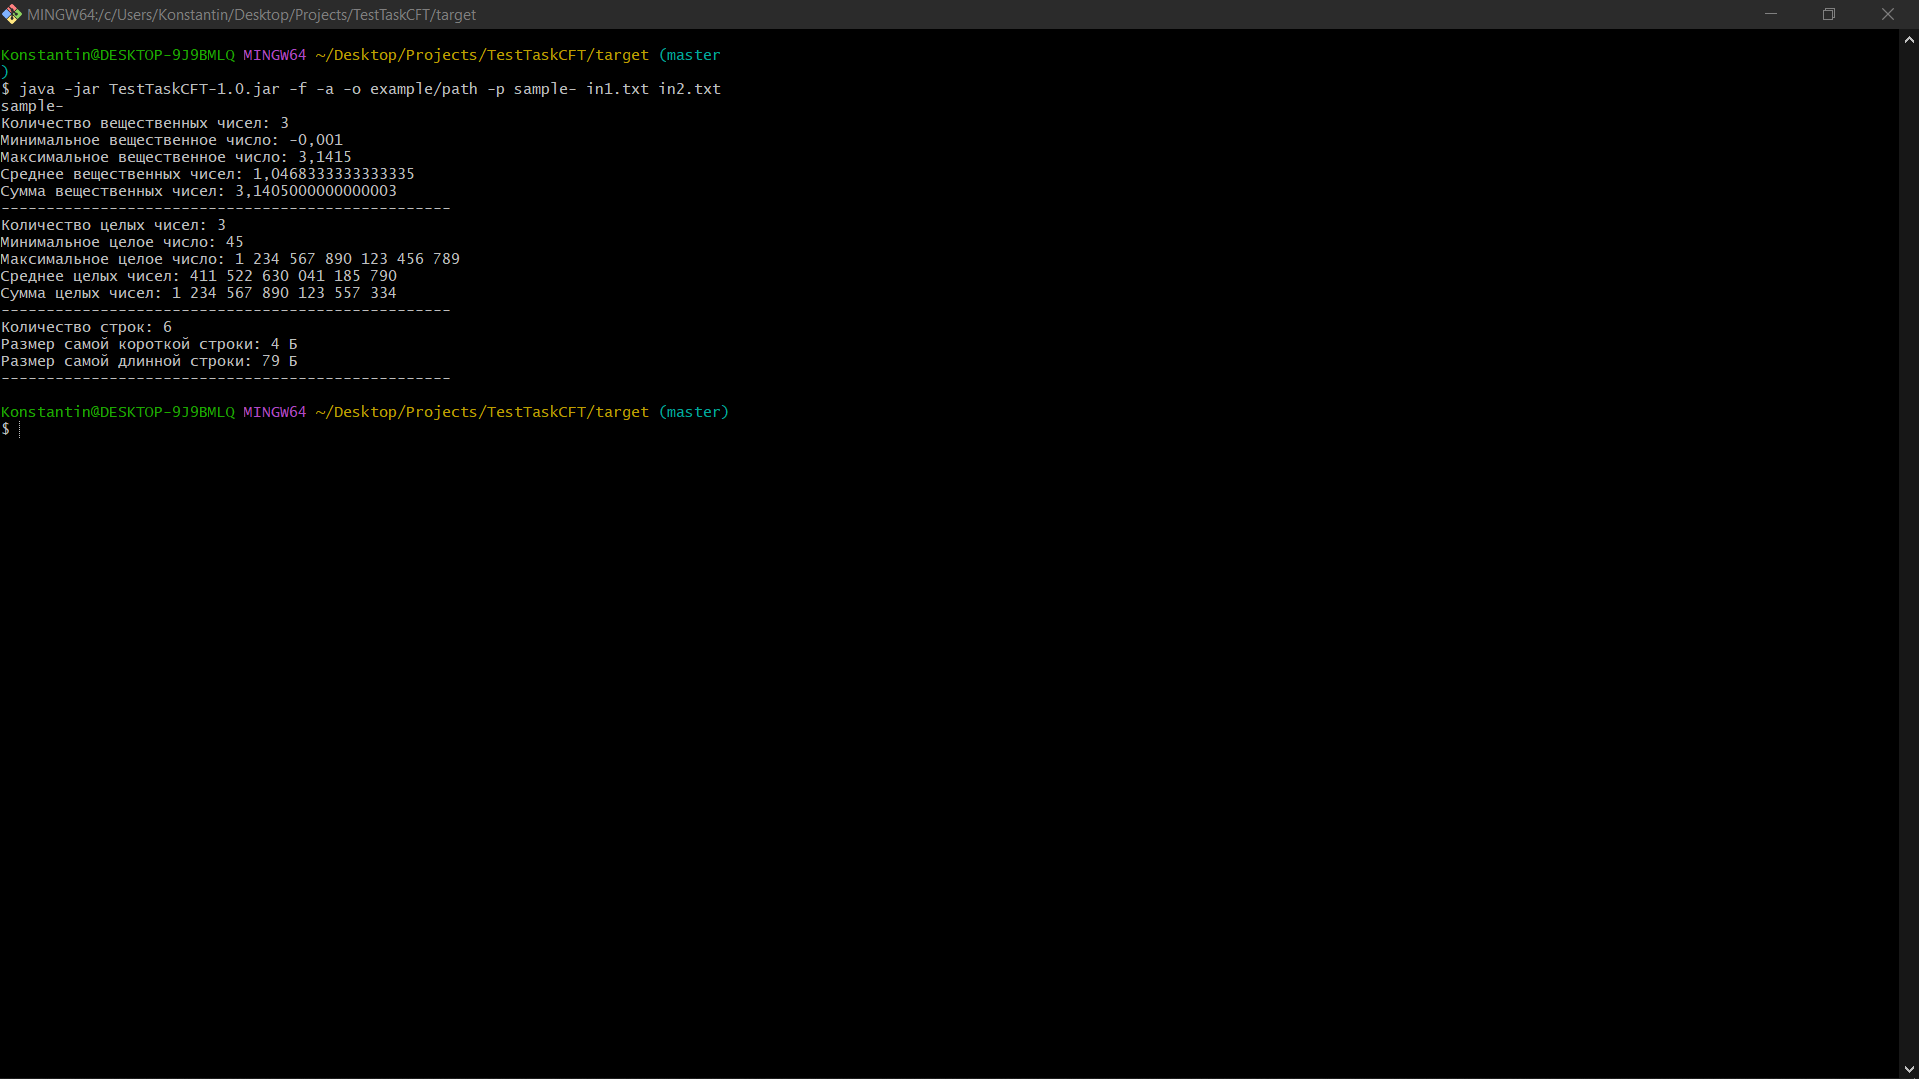
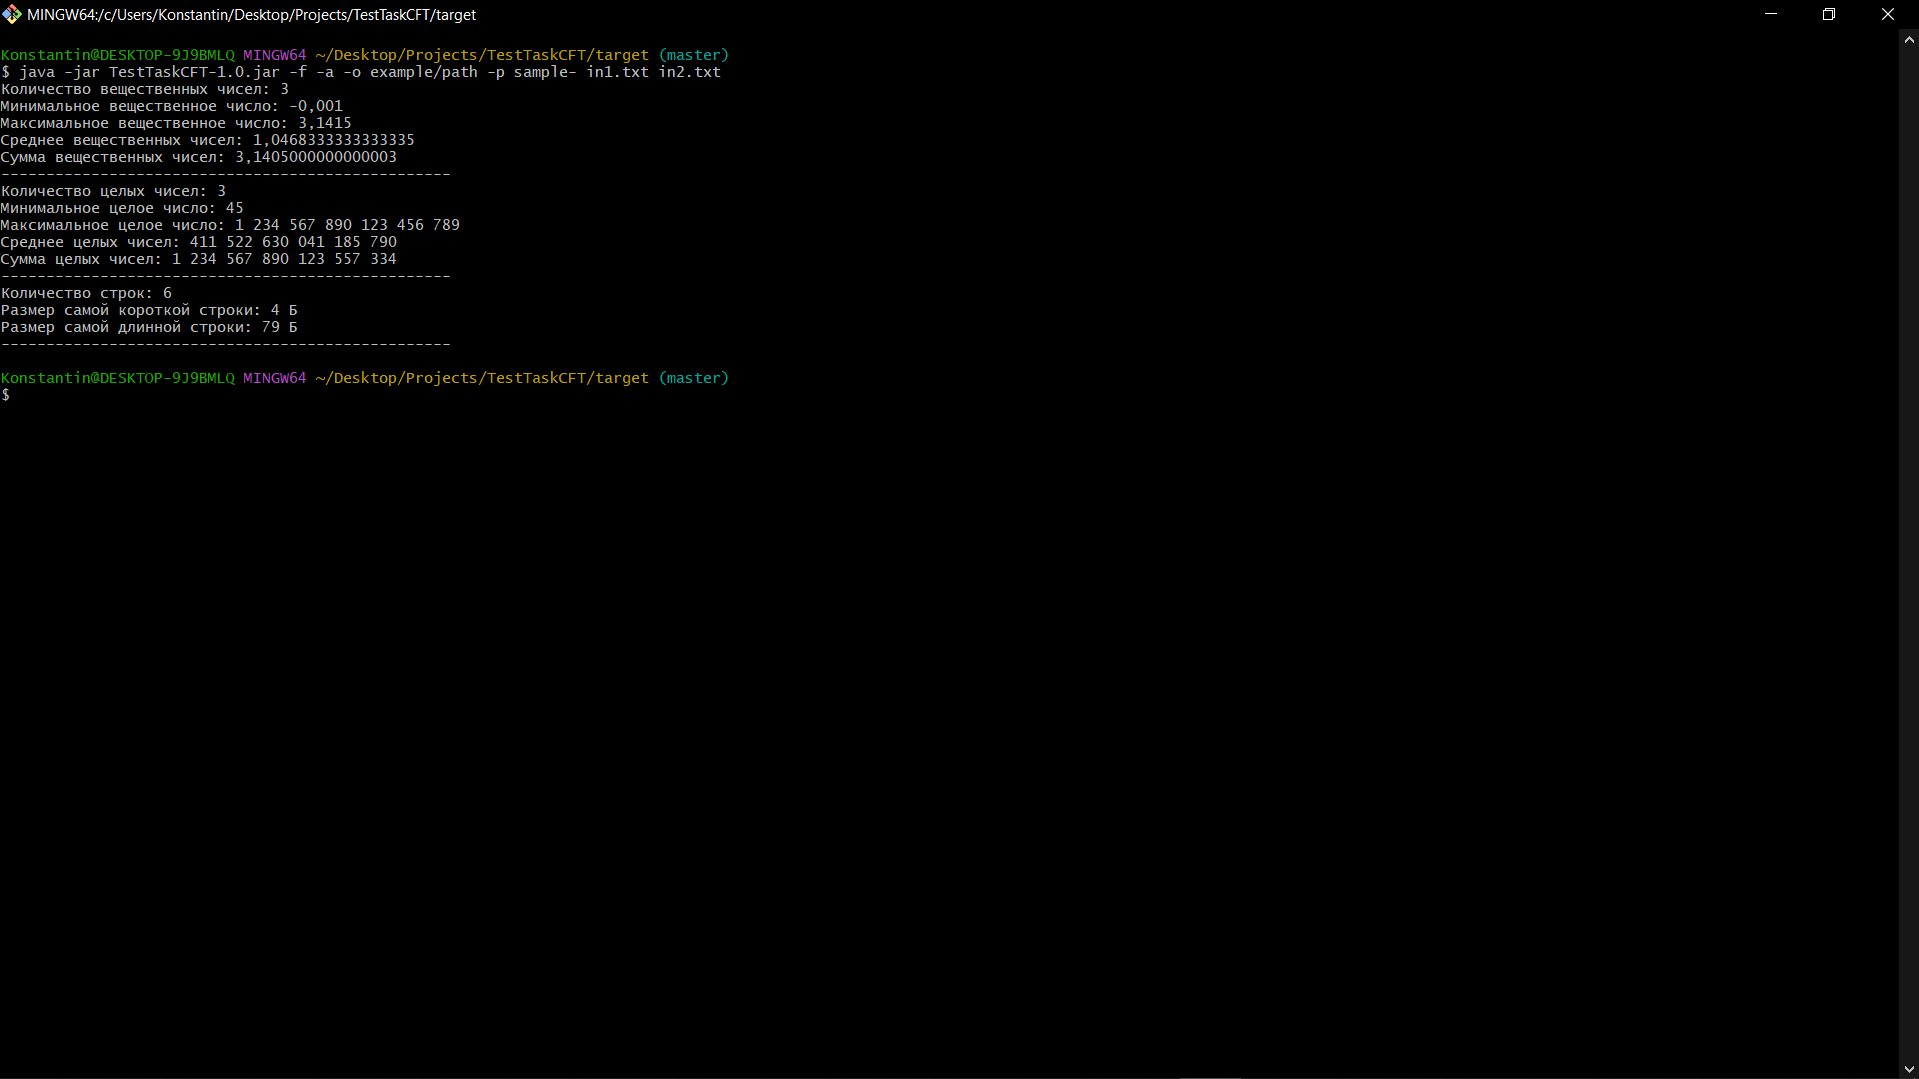
update README.md and prev images

Changed region(s): [[0.0, 0.0612, 0.3689, 0.3976], [0.0, 0.0, 1.0, 0.0306]]

diff --git a/README.md b/README.md
@@ -49,7 +49,7 @@
 <p>java -jar TestTaskCFT-1.0.jar -f -a -o example/path -p sample- in1.txt in2.txt</p>
 
 <h3>Примеры работы вывода статистики:</h3>
-<h4>Краткая статистика</h4>
+<h4>Краткая статистика:</h4>
 <img src="prev_img/statistics_output.png"/>
-<h4>Полная статистика</h4>
+<h4>Полная статистика:</h4>
 <img src="prev_img/full_statistics_output.png"/>
